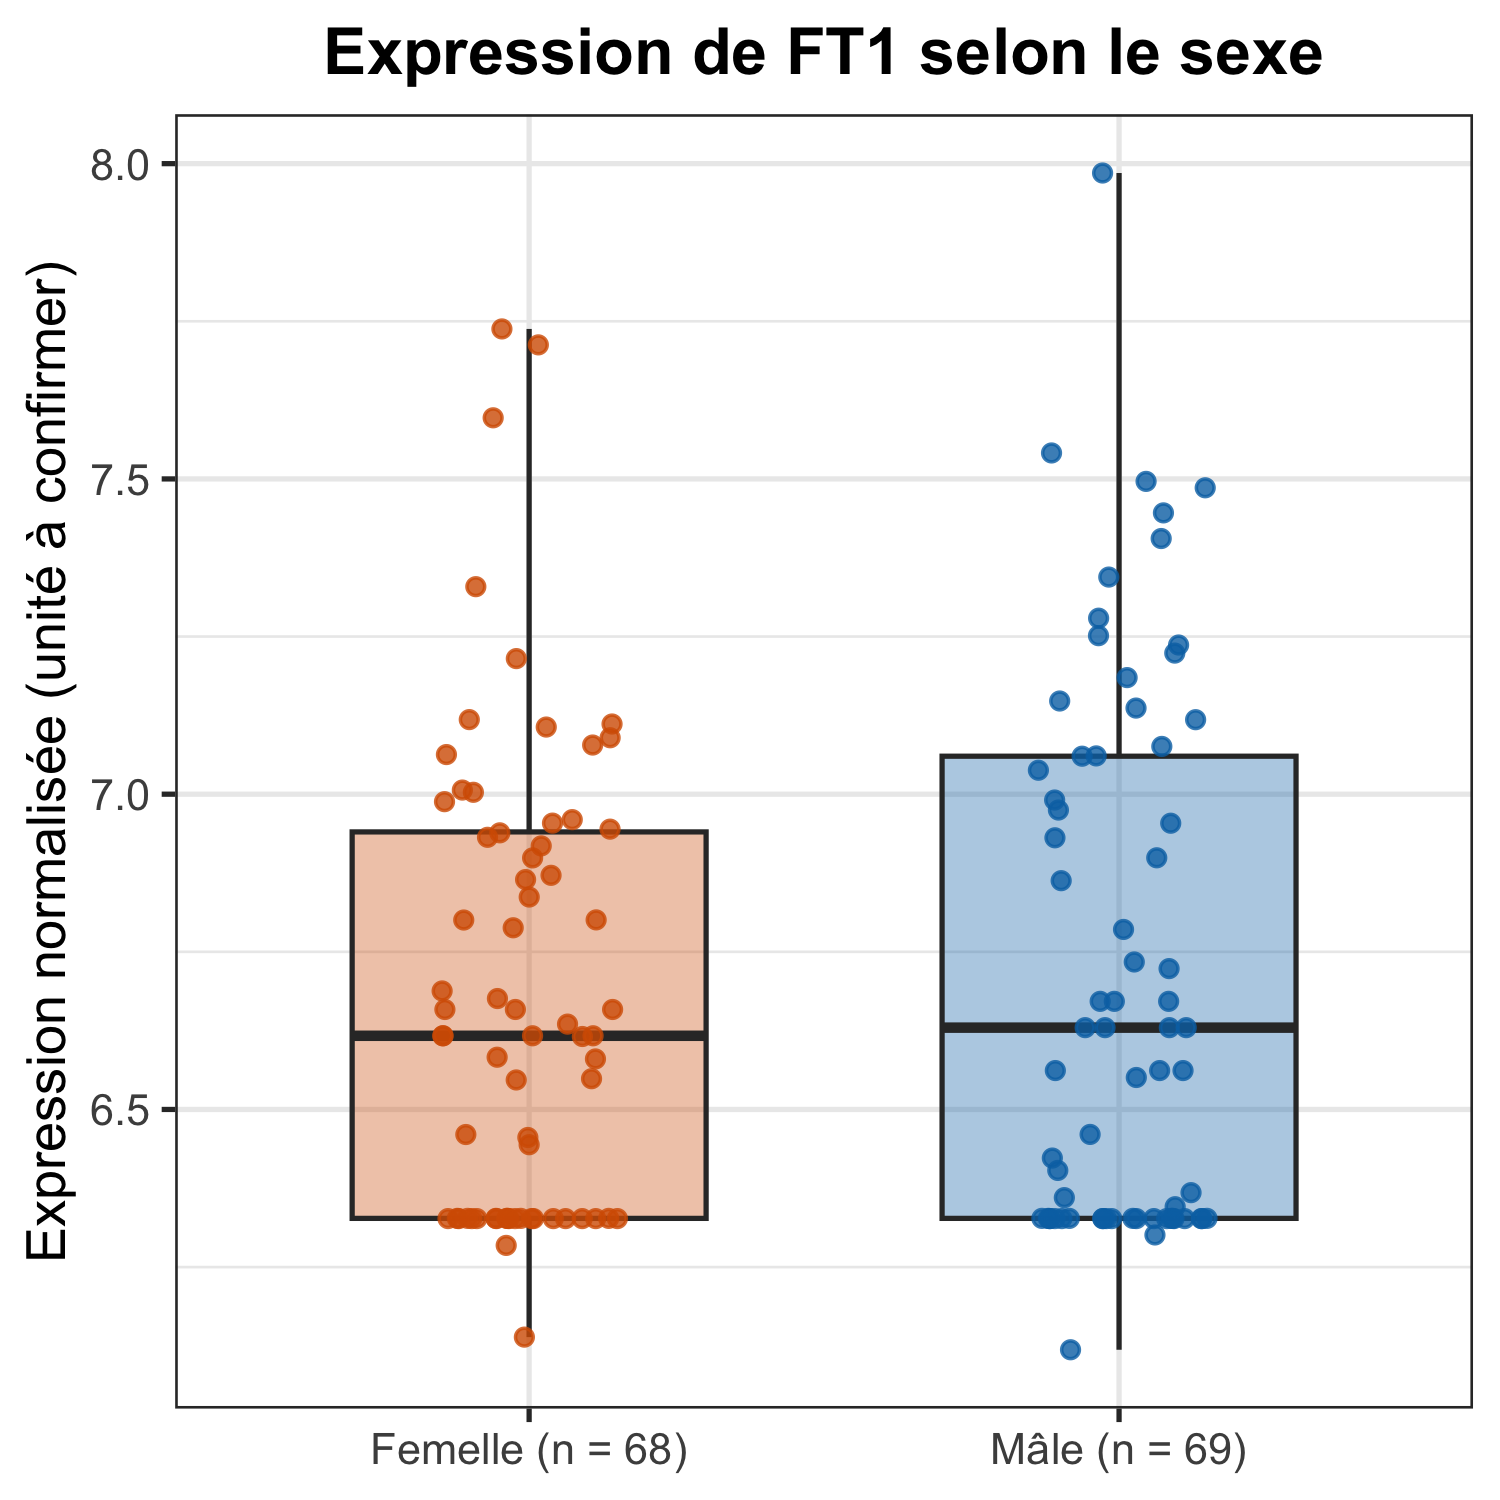
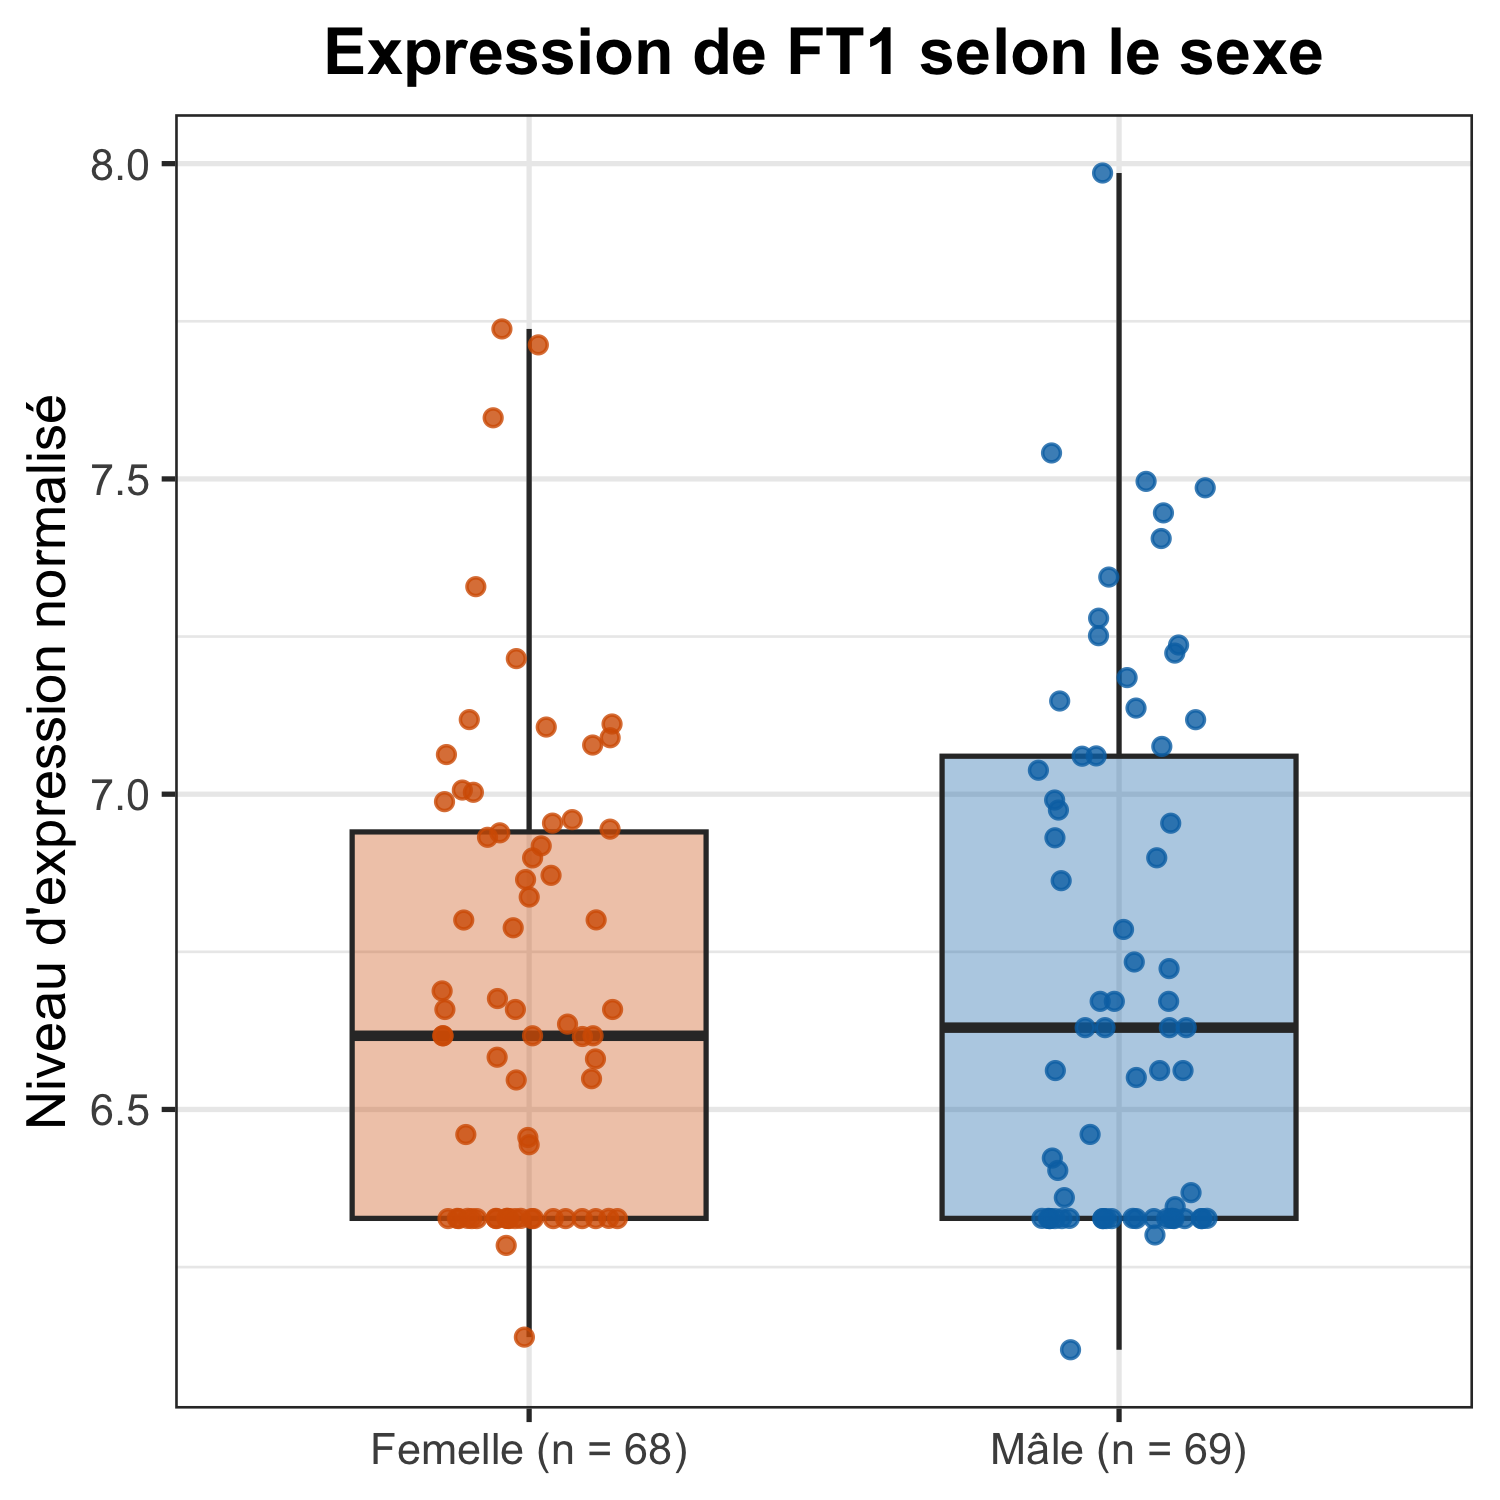
Modifications estéthiques

Changed region(s): [[0.0, 0.184, 0.0613, 0.8587]]

diff --git a/README.md b/README.md
@@ -1,34 +1,35 @@
-# Devoir 1 — BVG 7003  | Outil d'analyse transcriptomique
+# Devoir 1 — BVG 7003 | Outil d'analyse transcriptomique
 
 ## Sommaire
 
 - [Aperçu](#aperçu)
 - [Installation de l'outil](#installation)
 - [Exécution de l'outil](#exécution)
-- [Résultats](#résultats)
 - [Structure du dépôt](#structure-du-dépôt)
+- [Résultats](#résultats)
 
 ## Aperçu
-Ce dépôt contient un outil d'analyse de l'expression génique normalisée de 138 plants de *Cannabis sativa*. Il compare l'expression de deux gènes, **REM16** (LOC115699937) et **FT1** (LOC115696989), entre plants mâles et femelles, afin d'évaluer leur potentiel comme marqueurs candidats du sexe.
+Ce dépôt contient un outil d'analyse de l'expression génique normalisée de 138 plantes de *Cannabis sativa* (137 retenues pour l'analyse). Il compare l'expression de deux gènes, **REM16** (LOC115699937) et **FT1** (LOC115696989), entre plantes mâles et femelles, afin d'évaluer leur potentiel comme marqueurs permettant le sexage des plantes.
 
-Le coeur de l'outil est un script R : `run_analysis.R`. 
+Le cœur de l'outil est un script R : [`code/run_analysis.R`](code/run_analysis.R).
 
-Le script permet d'analyser le fichier de données `2_Data_RNASeq_Cannabis_Sex.csv`. 
+Le script permet d'analyser le fichier de données transcriptomiques [`data/2_Data_RNASeq_Cannabis_Sex.csv`](data/2_Data_RNASeq_Cannabis_Sex.csv).
 
-Le script produit trois graphiques : 
+Le script produit trois graphiques :
 
-- Boxplot de l'expression de REM16 selon le sexe : `REM16_boxplot_by_sex.png`
-- Boxplot de l'expression de FT1 selon le sexe : `FT1_boxplot_by_sex.png`
-- Boxplot de l'expression de REM16 et FT1 selon le sexe : `REM16_FT1_combined_by_sex.png`
+- Boxplot de l'expression de REM16 selon le sexe : [`figures/REM16_boxplot_by_sex.png`](figures/REM16_boxplot_by_sex.png)
+- Boxplot de l'expression de FT1 selon le sexe : [`figures/FT1_boxplot_by_sex.png`](figures/FT1_boxplot_by_sex.png)
+- Boxplot de l'expression de REM16 et FT1 selon le sexe : [`figures/REM16_FT1_combined_by_sex.png`](figures/REM16_FT1_combined_by_sex.png)
 
-Les versions des paquets sont fixées avec le *package* R `renv` et tous les chemins sont relatifs à la racine du projet, pour que l'analyse soit reproductible sur n'importe quel ordinateur ayant cloné le repo depuis **GitHub**.
+Les versions des paquets sont fixées avec le paquet R `renv` et tous les chemins sont relatifs à la racine du projet, pour que l'analyse soit reproductible pour n'importe quel utilisateur ayant cloné le dépôt depuis **GitHub**.
 
 ## Installation
 
 **Prérequis**
 
-- [R](https://cran.r-project.org/)
-- [RStudio Desktop](https://posit.co/download/rstudio-desktop/) (Parfois nécessaire pour lancer depuis un ordinateur Windows)
+- [R](https://cran.r-project.org/) (version 4.5.3, celle fixée dans `renv.lock`)
+- [Git](https://git-scm.com/downloads)
+- [RStudio Desktop](https://posit.co/download/rstudio-desktop/) (recommandé sous Windows)
 
 **1. Obtenir le dépôt**
 
@@ -39,7 +40,7 @@ cd devoir1_BVG7003
 
 **2. Installer les paquets R**
 
-Les versions exactes des *packages* nécessaires au fonctionnement de l'outil sont dans `renv.lock`. Voici la marche à suivre pour les installer avant d'exécuter l'outil :
+Les versions exactes des paquets nécessaires au fonctionnement de l'outil sont dans `renv.lock`. Voici la marche à suivre pour les installer avant d'exécuter l'outil :
 
 *macOS et Linux* — dans un terminal, depuis la racine du dépôt :
 
@@ -68,8 +69,7 @@ Rscript code/run_analysis.R
 2. Ouvrir `code/run_analysis.R`.
 3. Cliquer sur *Source* (en haut à droite de l'éditeur).
 
-Les dossiers `figures/` et `results/` sont créés s'ils n'existent pas; les fichiers existants
-sont remplacés.
+Les dossiers `figures/` et `results/` sont créés s'ils n'existent pas; les fichiers existants sont remplacés.
 
 ## Structure du dépôt
 
@@ -78,13 +78,13 @@ devoir1_BVG7003/
 ├── code/
 │   └── run_analysis.R                  # script d'analyse
 ├── data/
-│   └── 2_Data_RNASeq_Cannabis_Sex.csv  # fichier de données fourni
+│   └── 2_Data_RNASeq_Cannabis_Sex.csv  # fichier de données analysé
 ├── figures/                            # boxplots générés par le script
 │   ├── REM16_boxplot_by_sex.png
 │   ├── FT1_boxplot_by_sex.png
 │   └── REM16_FT1_combined_by_sex.png
-├── results/                            
-│   └── REM16_FT1_expression_long.csv   # données filtrés pour REM16 et FT1
+├── results/
+│   └── REM16_FT1_expression_long.csv   # données filtrées pour REM16 et FT1
 ├── Question_1/                         # livrables réalisés en classe
 ├── Question_2/
 ├── Question_4/
@@ -95,3 +95,11 @@ devoir1_BVG7003/
 ├── CLAUDE.md                           # consignes données à l'assistant IA
 └── README.md
 ```
+
+## Résultats
+
+![Expression de REM16 et FT1 selon le sexe](figures/REM16_FT1_combined_by_sex.png)
+
+**Figure combinée.** Niveau d'expression normalisé de REM16 (gauche) et de FT1 (droite) chez les plantes femelles (XX, orange, n = 68) et mâles (XY, bleu, n = 69). Chaque point est une plante; les boîtes indiquent la médiane et l'écart interquartile. Les deux panneaux partagent la même échelle Y. L'unité de normalisation des données fournies n'est pas connue. La plante `011_XX` est exclue des deux gènes, car sa valeur de FT1 est manquante.
+
+Les figures par gène sont dans [`figures/REM16_boxplot_by_sex.png`](figures/REM16_boxplot_by_sex.png) et [`figures/FT1_boxplot_by_sex.png`](figures/FT1_boxplot_by_sex.png). Les valeurs exactes représentées sont dans [`results/REM16_FT1_expression_long.csv`](results/REM16_FT1_expression_long.csv).

diff --git a/CLAUDE.md b/CLAUDE.md
@@ -68,9 +68,9 @@ Aucune exclusion silencieuse : afficher les n avant/après.
 
 - `figures/REM16_boxplot_by_sex.png`, `FT1_boxplot_by_sex.png`, `REM16_FT1_combined_by_sex.png`.
 - `geom_boxplot(outlier.shape = NA)` + `geom_jitter(height = 0)`.
-- n par groupe dans les étiquettes, calculé (pas écrit en dur). Axe Y avec l'unité réelle.
+- n par groupe dans les étiquettes, calculé. Axe Y : libellé générique « Niveau d'expression normalisé » (unité inconnue).
 - Pas de troncature d'axe trompeuse. Palette Okabe-Ito, mêmes couleurs partout.
-  Combinée : facettes par gène, échelles Y libres signalées.
+  Combinée : facettes par gène, même échelle Y pour les deux gènes (signalée dans la légende du README).
 - `ggsave()` PNG, 300 dpi, dimensions fixes. Pas de test statistique sauf justifié
   (avec taille d'effet).
 
